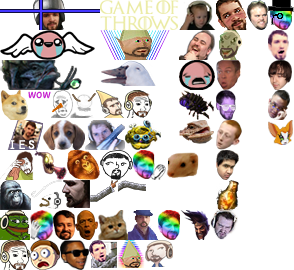
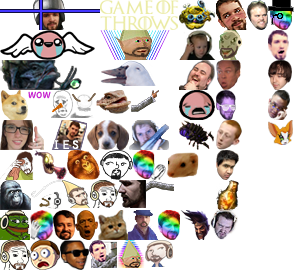
new emote, CheekerZ

Changed region(s): [[0.0, 0.0, 0.7347, 0.563], [0.2143, 0.6519, 0.6122, 0.7704]]

diff --git a/static/chat/css/style.min.css b/static/chat/css/style.min.css
@@ -1,1 +1,1 @@
-.nano{position:relative;width:100%;height:100%;overflow:hidden}.nano>.nano-content{position:absolute;overflow:scroll;overflow-x:hidden;top:0;right:0;bottom:0;left:0}.nano>.nano-content:focus{outline:thin dotted}.nano>.nano-content::-webkit-scrollbar{display:none}.has-scrollbar>.nano-content::-webkit-scrollbar{display:block}.nano>.nano-pane{background:rgba(0,0,0,0.25);position:absolute;width:10px;right:0;top:0;bottom:0;visibility:hidden\9;opacity:.01;-webkit-transition:.2s;-moz-transition:.2s;-o-transition:.2s;transition:.2s;-moz-border-radius:5px;-webkit-border-radius:5px;border-radius:5px}.nano>.nano-pane>.nano-slider{background:#444;background:rgba(0,0,0,0.5);position:relative;margin:0 1px;-moz-border-radius:3px;-webkit-border-radius:3px;border-radius:3px}.nano:hover>.nano-pane,.nano-pane.active,.nano-pane.flashed{visibility:visible\9;opacity:.99}.nano>.nano-pane>.nano-slider{background:#eee}.nano>.nano-pane{background:transparent;width:8px;right:4px}.serif{font-family:"Trebuchet MS",sans-serif}.noselect{-webkit-touch-callout:none;-webkit-user-select:none;-khtml-user-select:none;-moz-user-select:none;-ms-user-select:none;user-select:none}.chat{position:relative;width:100%;height:100%;min-width:300px}.chat-output-frame{margin-bottom:35px;height:auto;width:100%;position:absolute;overflow:hidden;top:0;bottom:0;left:0;right:0}.chat-output{width:100%;height:100%}.chat-output .chat-lines{-webkit-backface-visibility:hidden;-webkit-perspective:1000;outline:0 !important}.chat-lines>div{clear:both;word-wrap:break-word;padding:3px 20px 3px 5px}.chat-lines>div .continue{user-select:none;color:#444}.chat-lines>div i.continue{user-select:none;color:#222}.chat-lines a.user{font-weight:bold;cursor:pointer;font-family:"Trebuchet MS",sans-serif}.chat-lines hr{margin:8px 0}.chat-lines .msg.emote{font-style:italic}.chat-input{width:100%;position:absolute;bottom:0}#chat-top-frame{position:absolute;top:0;left:0;right:0}#chat-bottom-frame{position:absolute;bottom:35px;left:0;right:0}.chat-input>div{margin:5px 0 0 0;background:#2e2e2e}.chat-tools-wrap{position:absolute;right:0;bottom:0;margin:0;user-select:none;-moz-user-select:none;-webkit-user-select:none}.chat-input-wrap{margin:0;margin-right:60px}#user-mute-form,#user-ban-form{margin-top:10px;display:none}#user-mute-form #banTimeLength{width:150px}.chat-input-control{padding:3px 35px 0 5px;height:28px;margin:1px;border-radius:3px;position:relative}.chat-input-control .input{background:none;resize:none;margin:0;padding:0;width:100%;border:0;border-radius:0;box-shadow:none;box-sizing:border-box}.chat-input-control .input:focus{box-shadow:none}.chat-input-control #emoticon-btn{position:absolute;top:0;right:0;font-size:20px;padding:4px 10px;color:#555;cursor:pointer}.chat-input-control #emoticon-btn:hover,.chat-input-control #emoticon-btn.active{color:#969696}.chat-tools-wrap>div{height:30px;overflow:hidden}.chat-tools-wrap .iconbtn{font-size:20px;cursor:pointer;width:30px;height:28px;line-height:28px;float:left;display:block;text-align:center;color:#555;position:relative}.chat-tools-wrap .iconbtn:hover{color:white}.chat-tools-wrap .iconbtn.active{color:white}.chat-tools-wrap .chat-pm-count{font-family:"Lucida Console",Monaco,monospace;text-decoration:none;font-size:10px;color:white;background-color:#b91010;line-height:10px;padding:3px;position:absolute;border-radius:8px;top:-5px;left:0;display:block;text-shadow:1px 1px 0 black;text-align:center;box-shadow:1px 1px 0 rgba(0,0,0,0.1);min-width:15px}@-webkit-keyframes flash{0%,50%,100%{opacity:1}25%,75%{opacity:0}}@keyframes flash{0%,50%,100%{opacity:1}25%,75%{opacity:0}}.chat-pm-count.flash{-webkit-animation-name:flash;-webkit-animation-duration:1.5s;-webkit-animation-direction:alternate;-webkit-animation-timing-function:linear;-webkit-animation-delay:0s;-webkit-animation-iteration-count:infinite;-moz-animation-name:flash;-moz-animation-duration:1.5s;-moz-animation-direction:alternate;-moz-animation-timing-function:linear;-moz-animation-delay:0s;-moz-animation-iteration-count:infinite;animation-name:flash;animation-duration:1.5s;animation-iteration-count:infinite}.chat .chat-lines i[class^="icon-"]{width:16px;line-height:16px;height:16px;margin:0;opacity:1;display:inline-block;vertical-align:middle}.chat-input-control input,.chat-lines{font-family:Helvetica,"Trebuchet MS",Verdana,sans-serif;font-size:13px;line-height:1.5em}.chat-lines time{font-size:11px}.chat-lines a.externallink{color:#02c2ff}.chat-lines a.externallink:visited{color:#a66be5}.chat-lines a.externallink:hover,.chat-lines a.externallink:focus{color:#08c}.chat-lines a.nsfw-link{border-bottom:1px dashed red}.chat-lines a.nsfl-link{border-bottom:1px dashed #fff000}.chat .chat-lines time,.chat .user-msg i{display:none !important}.chat.chat-time .chat-lines time,.chat.chat-icons .user-msg i,.chat-lines i[class*='icon-subscriber']{display:inline-block !important}.chat-theme-dark{background:#080808;border-radius:0}.chat-theme-dark .chat-input-wrap{border:none}.chat-theme-dark .chat-lines time{color:#414141}.chat-theme-dark .chat-lines>div.highlight time,.chat-lines>div.highlight .continue{color:#838383}.chat-theme-dark .chat-lines>.command-msg,.chat-theme-dark .chat-lines>.error-msg,.chat-theme-dark .chat-lines>.status-msg,.chat-theme-dark .chat-lines>.ui-msg,.chat-theme-dark .chat-lines>.own-msg,.chat-theme-dark .chat-lines>.highlight{color:#dedede}.chat-theme-dark .chat-lines>.broadcast-msg .msg{color:#edea12}.chat-theme-dark .chat-lines>.broadcast-msg{background:rgba(255,255,21,0.1)}.chat-theme-dark .chat-lines>.own-msg{background-color:rgba(255,255,255,0.05)}.chat-theme-dark .chat-lines>.highlight{background-color:rgba(0,150,255,0.25)}.chat-theme-dark .chat-lines>.command-msg,.chat-theme-dark .chat-lines>.own-msg,.chat-theme-dark .chat-lines>.highlight .msg,.chat-theme-dark .chat-lines>.broadcast-msg .msg{text-shadow:1px 1px 0 rgba(0,0,0,0.5)}.chat-theme-dark .chat-input-control{background:#090909;border:none}.chat-theme-dark .chat-input-control input{color:#9e9e9e;background:#090909;text-shadow:none;outline:none}.chat-theme-dark .chat-lines>.private-message{background-color:#212121;margin:5px 15px 5px 10px;padding:10px;position:relative;border-radius:3px}.chat-theme-dark .chat-lines>.private-message .speech-arrow{top:15px;left:-5px;position:absolute;width:0;height:0;border-style:solid;border-width:5px 5px 5px 0;border-color:transparent #212121 transparent transparent}.chat-theme-dark .chat-lines>.private-message .message-actions{font-size:90%}.chat-theme-dark input:input-placeholder{color:#222}.chat-theme-dark input::-webkit-input-placeholder{color:#222}.chat-theme-dark input:-moz-placeholder{color:#222}.chat-theme-dark input::-moz-placeholder{color:#222}.chat-theme-dark input:-ms-input-placeholder{color:#222}.chat-theme-dark .nano>.pane{background:rgba(0,0,0,0.3);width:8px;right:5px;top:5px;bottom:0}.chat-theme-dark .nano>.pane>.slider{background:#999}.chat-theme-dark .nano>.pane>.slider:hover,.chat-theme-dark .nano>.pane.active>.slider{background:#eee}.chat.focus-user .chat-lines>.user-msg{opacity:.3}.chat.focus-user .chat-lines>.user-msg.focused,.chat.focus-user .chat-lines>.user-msg.highlight{opacity:1}.chat .alert{margin-bottom:0;padding-top:4px;padding-bottom:4px;font-size:12px}.hint-popup,.user-tools{width:100%;top:-5px;left:0}.hint-popup>div,.user-tools>div,#chat-broadcasts>div{border-radius:4px;margin:5px 20px 5px 5px}.user-tools .user-tools-user{font-family:"Trebuchet MS",sans-serif}#chat-broadcasts .chat-emote{display:none}.hint-popup>div{box-shadow:0 2px 6px rgba(0,0,0,0.9);padding:0}.hint-popup a:hover{cursor:pointer;color:#6aa7f9}.hint-popup .hidehint,.hint-popup .nexthint{top:0;position:relative;float:right;right:-23px;line-height:20px;-webkit-touch-callout:none;-webkit-user-select:none;-khtml-user-select:none;-moz-user-select:none;-ms-user-select:none;user-select:none;color:#ccc}.hint-popup .hidehint{right:-27px}.hint-popup .hidehint:hover,.hint-popup .nexthint:hover{color:#111}.hint-popup .alert{padding-right:35px}.user-tools-wrap{margin-left:-5px}.user-tools-wrap>a{margin:0 5px}.chat-menu,.user-tools,.hint-popup{display:none;opacity:0}.chat-menu.active,.user-tools.active,.hint-popup.active{display:block;opacity:1}.chat-menu,.user-tools,.hint-popup{font-size:12px}.chat-menu{position:absolute;right:20px;bottom:-5px;width:240px}.chat-menu.active{bottom:0}.chat-menu h5,.user-tools h5{text-shadow:-1px -1px 0 rgba(0,0,0,0.25);user-select:none;-moz-user-select:none;-webkit-user-select:none;background:#4f4f4f;background:linear-gradient(to bottom, #4f4f4f 0, #2e2e2e 100%);border-bottom:1px solid #121212;margin:0;line-height:20px;display:block;padding:5px 15px 5px 10px;border-radius:4px 4px 0 0}.chat-menu .toolbar{width:100%;position:absolute;top:-31px;left:0}.chat-menu li,.chat-menu label{font-size:12px}.chat-menu label{font-weight:normal;margin:0 0 5px 0}.chat-menu label:hover{color:white}.chat-menu .list-wrap,.chat-menu .scrollable{max-height:343px}.chat-menu .list-wrap,.user-tools>div{box-shadow:0 2px 6px rgba(0,0,0,0.9);border-radius:0 0 4px 4px;background:rgba(25,25,25,0.9);padding:0}.chat-menu .list-wrap{margin-top:auto}.chat-menu ul,.chat-menu .tools,.user-tools .tools{padding:0 10px;margin:10px 0}.chat-menu ul>li:first-child h5{margin-top:0}.chat-menu ul li{text-overflow:ellipsis;overflow:hidden}.chat-menu h6:first-child{margin-top:10px}.chat-menu h6{font-weight:bold;margin:0 0 5px 5px}#chat-user-list ul li{line-height:18px}#chat-user-list hr{margin:5px 0}#chat-user-list ul{margin:0}#chat-user-list .user{cursor:pointer;font-family:"Trebuchet MS",sans-serif}#chat-user-list .scrollable{font-size:.9em}.user-tools a#unignoreuser,.user-tools.user-ignored a#ignoreuser{display:none}.user-tools.user-ignored a#unignoreuser{display:inline-block}.chat-menu .nano>.pane{width:8px;right:3px;top:3px;bottom:3px}#chat-private-messages{width:270px}#chat-private-messages #chat-pm-message{padding:15px}#chat-private-messages #chat-pm-message p{font-size:14px;text-align:center}#chat-emote-list{width:calc(100% - 40px);max-width:450px}#chat-emote-list h6{text-align:center}#chat-emotes{text-align:center}#chat-emote-list .emote-group{margin-right:10px;margin-top:5px;-webkit-touch-callout:none;-webkit-user-select:none;-khtml-user-select:none;-moz-user-select:none;-ms-user-select:none;user-select:none}#chat-emote-list .emote{display:inline-block;padding:4px}#chat-emote-list .emote-group:not(.disabled) .emote:hover{cursor:pointer;background-color:rgba(255,255,255,0.1);border-radius:4px}#chat-emote-list .chat-emote{top:0;margin:5px}#chat-emote-list .content{outline:0}.chat-login-msg{display:inline-block;width:100%;padding:0 0 0 5px;line-height:30px;color:rgba(255,255,255,0.5);text-shadow:-1px -1px 0 rgba(0,0,0,0.25)}.chat-lines .emotecount{color:white;text-shadow:1px 1px 0 rgba(0,0,0,0.9);font-size:10px;line-height:10px;border-radius:10px;padding:3px 6px;margin:0 0 0 5px;background:#191919}.chat-lines .emotecount{text-shadow:none;animation:emotecount 600ms 1;-moz-animation:emotecount 600ms 1;-webkit-animation:emotecount 600ms 1}@keyframes emotecount{from{color:black;background-color:white}to{color:white;background-color:#333}}@-webkit-keyframes emotecount{from{color:black;background-color:white}to{color:white;background-color:#333}}.chat-lines .emotecount.x5>span{font-size:12px}.chat-lines .emotecount.x10>span{font-size:16px}.chat-lines .emotecount.x20>span{font-size:25px;vertical-align:middle}.chat-lines .emotecount.x30>span{font-size:35px;vertical-align:middle}.chat-lines .emotecount.x50>span{font-size:40px;vertical-align:middle}.chat a.user{color:#cacaca}.chat a.user:hover{color:#fafafa}.chat a.subscriber{color:#488ce7}.chat a.subscriber:hover{color:#6aa7f9}.chat a.flair3{color:#0060ff;text-shadow:1px 1px 0 black}.chat a.flair3:hover{color:#6aa7f9}.chat a.flair8{color:#a427d6;text-shadow:1px 1px 0 black}.chat a.flair8:hover{color:#e564f4}.chat a.vip{color:#4db524}.chat a.vip:hover{color:#4db524}.chat a.bot{color:#e79015}.chat a.bot:hover{color:#e79015}.chat a.admin{color:#b91010}.chat a.admin:hover{color:#f00}.chat .greentext{color:#6ca528}@keyframes hop{0%{transform:translateY(0)}5%{transform:translateY(2px)}10%{transform:translateY(-13px)}50%{transform:translateY(-15px)}70%{transform:translateY(-13px)}80%{transform:translateY(-5px)}95%{transform:translateY(0)}100%{transform:translateY(0)}}.hop{animation:hop 700ms linear 5}.chat-emote{display:inline-block;position:relative;top:10px;margin:0 2px;overflow:hidden;text-indent:-90000px;vertical-align:middle}.chat-emote.chat-emote-OverRustle{animation:rustle 100ms 7;-webkit-animation:rustle 100ms 7}.chat-emote.chat-emote-OverRustle:hover{animation:rustle1 100ms infinite;-webkit-animation:rustle1 100ms infinite}@keyframes rustle{from{left:0}to{left:2px}}@-webkit-keyframes rustle{from{left:0}to{left:2px}}@keyframes rustle1{from{left:0}to{left:2px}}@-webkit-keyframes rustle1{from{left:0}to{left:2px}}.chat-emote.chat-emote-AYYYLMAO,.chat-emote.chat-emote-AngelThump,.chat-emote.chat-emote-Abathur,.chat-emote.chat-emote-GameOfThrows,.chat-emote.chat-emote-DANKMEMES,.chat-emote.chat-emote-DuckerZ,.chat-emote.chat-emote-SoDoge,.chat-emote.chat-emote-SoSad,.chat-emote.chat-emote-LIES,.chat-emote.chat-emote-FrankerZ,.chat-emote.chat-emote-SOTRIGGERED,.chat-emote.chat-emote-Heimerdonger,.chat-emote.chat-emote-FeedNathan,.chat-emote.chat-emote-LUL,.chat-emote.chat-emote-BibleThump,.chat-emote.chat-emote-INFESTINY,.chat-emote.chat-emote-Hhhehhehe,.chat-emote.chat-emote-SWEATSTINY,.chat-emote.chat-emote-SURPRISE,.chat-emote.chat-emote-OverRustle,.chat-emote.chat-emote-LeRuse,.chat-emote.chat-emote-Klappa,.chat-emote.chat-emote-FerretLOL,.chat-emote.chat-emote-NoTears,.chat-emote.chat-emote-MASTERB8,.chat-emote.chat-emote-DestiSenpaii,.chat-emote.chat-emote-YEE,.chat-emote.chat-emote-WhoahDude,.chat-emote.chat-emote-WORTH,.chat-emote.chat-emote-UWOTM8,.chat-emote.chat-emote-TooSpicy,.chat-emote.chat-emote-Sippy,.chat-emote.chat-emote-PEPE,.chat-emote.chat-emote-OhKrappa,.chat-emote.chat-emote-Nappa,.chat-emote.chat-emote-NOTMYTEMPO,.chat-emote.chat-emote-MotherFuckinGame,.chat-emote.chat-emote-MLADY,.chat-emote.chat-emote-Kappa,.chat-emote.chat-emote-Dravewin,.chat-emote.chat-emote-Disgustiny,.chat-emote.chat-emote-DatGeoff,.chat-emote.chat-emote-DappaKappa,.chat-emote.chat-emote-DaFeels,.chat-emote.chat-emote-DURRSTINY,.chat-emote.chat-emote-DAFUK,.chat-emote.chat-emote-CallChad,.chat-emote.chat-emote-CallCatz,.chat-emote.chat-emote-BasedGod,.chat-emote.chat-emote-nathanParty,.chat-emote.chat-emote-nathanFeels,.chat-emote.chat-emote-nathanFather,.chat-emote.chat-emote-nathanDubs3,.chat-emote.chat-emote-nathanDubs2,.chat-emote.chat-emote-nathanDubs1,.chat-emote.chat-emote-nathanDank,.chat-emote.chat-emote-nathanDad,.chat-emote.chat-emote-FIDGETLOL{background-image:url('../img/emoticons.png');background-repeat:no-repeat}.chat-emote.chat-emote-AYYYLMAO{background-position:0 0;width:100px;height:30px;margin-top:-30px}.chat-emote.chat-emote-AngelThump{background-position:0 -30px;width:95px;height:30px;margin-top:-30px}.chat-emote.chat-emote-Abathur{background-position:0 -60px;width:82px;height:30px;margin-top:-30px}.chat-emote.chat-emote-GameOfThrows{background-position:-100px 0;width:79px;height:30px;margin-top:-30px}.chat-emote.chat-emote-DANKMEMES{background-position:-100px -30px;width:70px;height:30px;margin-top:-30px}.chat-emote.chat-emote-DuckerZ{background-position:-100px -60px;width:56px;height:26px;margin-top:-26px}.chat-emote.chat-emote-SoDoge{background-position:0 -90px;width:51px;height:30px;margin-top:-30px}.chat-emote.chat-emote-SoSad{background-position:-51px -90px;width:45px;height:28px;margin-top:-28px}.chat-emote.chat-emote-LIES{background-position:0 -120px;width:43px;height:30px;margin-top:-30px}.chat-emote.chat-emote-FrankerZ{background-position:-43px -120px;width:42px;height:30px;margin-top:-30px}.chat-emote.chat-emote-SOTRIGGERED{background-position:-85px -120px;width:40px;height:30px;margin-top:-30px}.chat-emote.chat-emote-Heimerdonger{background-position:-125px -120px;width:37px;height:30px;margin-top:-30px}.chat-emote.chat-emote-FeedNathan{background-position:-179px 0;width:37px;height:30px;margin-top:-30px}.chat-emote.chat-emote-LUL{background-position:-179px -30px;width:36px;height:30px;margin-top:-30px}.chat-emote.chat-emote-BibleThump{background-position:-179px -60px;width:36px;height:30px;margin-top:-30px}.chat-emote.chat-emote-INFESTINY{background-position:-179px -90px;width:35px;height:30px;margin-top:-30px}.chat-emote.chat-emote-Hhhehhehe{background-position:-179px -120px;width:35px;height:24px;margin-top:-24px}.chat-emote.chat-emote-SWEATSTINY{background-position:0 -150px;width:34px;height:30px;margin-top:-30px}.chat-emote.chat-emote-SURPRISE{background-position:-34px -150px;width:33px;height:30px;margin-top:-30px}.chat-emote.chat-emote-OverRustle{background-position:-67px -150px;width:33px;height:30px;margin-top:-30px}.chat-emote.chat-emote-LeRuse{background-position:-100px -150px;width:33px;height:30px;margin-top:-30px}.chat-emote.chat-emote-Klappa{background-position:-133px -150px;width:33px;height:30px;margin-top:-30px}.chat-emote.chat-emote-FerretLOL{background-position:-166px -150px;width:33px;height:30px;margin-top:-30px}.chat-emote.chat-emote-NoTears{background-position:0 -180px;width:31px;height:30px;margin-top:-30px}.chat-emote.chat-emote-MASTERB8{background-position:-31px -180px;width:31px;height:29px;margin-top:-29px}.chat-emote.chat-emote-DestiSenpaii{background-position:-216px 0;width:31px;height:30px;margin-top:-30px}.chat-emote.chat-emote-YEE{background-position:-216px -30px;width:27px;height:30px;margin-top:-30px}.chat-emote.chat-emote-WhoahDude{background-position:-216px -60px;width:25px;height:30px;margin-top:-30px}.chat-emote.chat-emote-WORTH{background-position:-216px -90px;width:20px;height:30px;margin-top:-30px}.chat-emote.chat-emote-UWOTM8{background-position:-216px -120px;width:26px;height:30px;margin-top:-30px}.chat-emote.chat-emote-TooSpicy{background-position:-216px -150px;width:23px;height:30px;margin-top:-30px}.chat-emote.chat-emote-Sippy{background-position:-216px -180px;width:24px;height:30px;margin-top:-30px}.chat-emote.chat-emote-PEPE{background-position:0 -210px;width:30px;height:30px;margin-top:-30px}.chat-emote.chat-emote-OhKrappa{background-position:-30px -210px;width:23px;height:30px;margin-top:-30px}.chat-emote.chat-emote-Nappa{background-position:-53px -210px;width:22px;height:30px;margin-top:-30px}.chat-emote.chat-emote-NOTMYTEMPO{background-position:-75px -210px;width:23px;height:30px;margin-top:-30px}.chat-emote.chat-emote-MotherFuckinGame{background-position:-98px -210px;width:30px;height:30px;margin-top:-30px}.chat-emote.chat-emote-MLADY{background-position:-128px -210px;width:30px;height:30px;margin-top:-30px}.chat-emote.chat-emote-Kappa{background-position:-158px -210px;width:22px;height:30px;margin-top:-30px}.chat-emote.chat-emote-Dravewin{background-position:-180px -210px;width:30px;height:30px;margin-top:-30px}.chat-emote.chat-emote-Disgustiny{background-position:-210px -210px;width:28px;height:30px;margin-top:-30px}.chat-emote.chat-emote-DatGeoff{background-position:-247px 0;width:21px;height:30px;margin-top:-30px}.chat-emote.chat-emote-DappaKappa{background-position:-268px 0;width:26px;height:30px;margin-top:-30px}.chat-emote.chat-emote-DaFeels{background-position:0 -240px;width:30px;height:30px;margin-top:-30px}.chat-emote.chat-emote-DURRSTINY{background-position:-268px -30px;width:21px;height:30px;margin-top:-30px}.chat-emote.chat-emote-DAFUK{background-position:-30px -240px;width:30px;height:30px;margin-top:-30px}.chat-emote.chat-emote-CallChad{background-position:-268px -60px;width:24px;height:30px;margin-top:-30px}.chat-emote.chat-emote-CallCatz{background-position:-268px -90px;width:22px;height:30px;margin-top:-30px}.chat-emote.chat-emote-BasedGod{background-position:-60px -240px;width:29px;height:30px;margin-top:-30px}.chat-emote.chat-emote-nathanParty{background-position:-96px -90px;width:28px;height:28px;margin-top:-28px}.chat-emote.chat-emote-nathanFeels{background-position:-124px -90px;width:28px;height:28px;margin-top:-28px}.chat-emote.chat-emote-nathanFather{background-position:-62px -180px;width:28px;height:28px;margin-top:-28px}.chat-emote.chat-emote-nathanDubs3{background-position:-90px -180px;width:28px;height:22px;margin-top:-22px}.chat-emote.chat-emote-nathanDubs2{background-position:-118px -180px;width:28px;height:12px;margin-top:-12px}.chat-emote.chat-emote-nathanDubs1{background-position:-89px -240px;width:28px;height:28px;margin-top:-28px}.chat-emote.chat-emote-nathanDank{background-position:-117px -240px;width:28px;height:28px;margin-top:-28px}.chat-emote.chat-emote-nathanDad{background-position:-145px -240px;width:28px;height:27px;margin-top:-27px}.chat-emote.chat-emote-FIDGETLOL{background-position:-268px -120px;width:25px;height:25px;margin-top:-25px}.icon-subscriber,.icon-subscribert2,.icon-subscribert3,.icon-subscribert4{-webkit-transform:rotate(0deg);-webkit-transition:rotate .2s ease-in-out;-moz-transition:rotate .2s ease-in-out;-o-transition:rotate .2s ease-in-out;transition:rotate .2s ease-in-out}.icon-subscriber:hover,.icon-subscribert2:hover,.icon-subscribert3:hover,.icon-subscribert4:hover{-moz-animation:spin 3s infinite linear;-webkit-animation:spin 3s infinite linear}.icon-vip:hover,.icon-vip,.icon-trusted,.icon-subscribert4,.icon-subscribert3,.icon-subscribert2,.icon-subscriber,.icon-status,.icon-notable,.icon-moderator,.icon-minitwitch,.icon-mail,.icon-mail-send,.icon-mail-receive,.icon-mail-open-document,.icon-info,.icon-evenotable,.icon-error,.icon-contributor,.icon-compchallenge:hover,.icon-compchallenge,.icon-command,.icon-bot:hover,.icon-bot,.icon-admin:hover,.icon-admin{background-image:url('../img/icons.png');background-repeat:no-repeat}.icon-vip:hover{background-position:0 0;width:16px;height:16px}.icon-vip{background-position:-16px 0;width:16px;height:16px}.icon-trusted{background-position:0 -16px;width:16px;height:16px}.icon-subscribert4{background-position:-16px -16px;width:16px;height:16px}.icon-subscribert3{background-position:-32px 0;width:16px;height:16px}.icon-subscribert2{background-position:-32px -16px;width:16px;height:16px}.icon-subscriber{background-position:0 -32px;width:16px;height:16px}.icon-status{background-position:-16px -32px;width:16px;height:16px}.icon-notable{background-position:-32px -32px;width:16px;height:16px}.icon-moderator{background-position:-48px 0;width:16px;height:16px}.icon-minitwitch{background-position:-48px -16px;width:16px;height:16px}.icon-mail{background-position:-48px -32px;width:16px;height:16px}.icon-mail-send{background-position:0 -48px;width:16px;height:16px}.icon-mail-receive{background-position:-16px -48px;width:16px;height:16px}.icon-mail-open-document{background-position:-32px -48px;width:16px;height:16px}.icon-info{background-position:-48px -48px;width:16px;height:16px}.icon-evenotable{background-position:-64px 0;width:16px;height:16px}.icon-error{background-position:-64px -16px;width:16px;height:16px}.icon-contributor{background-position:-64px -32px;width:16px;height:16px}.icon-compchallenge:hover{background-position:-64px -48px;width:16px;height:16px}.icon-compchallenge{background-position:0 -64px;width:16px;height:16px}.icon-command{background-position:-16px -64px;width:16px;height:16px}.icon-bot:hover{background-position:-32px -64px;width:16px;height:16px}.icon-bot{background-position:-48px -64px;width:16px;height:16px}.icon-admin:hover{background-position:-64px -64px;width:16px;height:16px}.icon-admin{background-position:-80px 0;width:16px;height:16px}
+.nano{position:relative;width:100%;height:100%;overflow:hidden}.nano>.nano-content{position:absolute;overflow:scroll;overflow-x:hidden;top:0;right:0;bottom:0;left:0}.nano>.nano-content:focus{outline:thin dotted}.nano>.nano-content::-webkit-scrollbar{display:none}.has-scrollbar>.nano-content::-webkit-scrollbar{display:block}.nano>.nano-pane{background:rgba(0,0,0,0.25);position:absolute;width:10px;right:0;top:0;bottom:0;visibility:hidden\9;opacity:.01;-webkit-transition:.2s;-moz-transition:.2s;-o-transition:.2s;transition:.2s;-moz-border-radius:5px;-webkit-border-radius:5px;border-radius:5px}.nano>.nano-pane>.nano-slider{background:#444;background:rgba(0,0,0,0.5);position:relative;margin:0 1px;-moz-border-radius:3px;-webkit-border-radius:3px;border-radius:3px}.nano:hover>.nano-pane,.nano-pane.active,.nano-pane.flashed{visibility:visible\9;opacity:.99}.nano>.nano-pane>.nano-slider{background:#eee}.nano>.nano-pane{background:transparent;width:8px;right:4px}.serif{font-family:"Trebuchet MS",sans-serif}.noselect{-webkit-touch-callout:none;-webkit-user-select:none;-khtml-user-select:none;-moz-user-select:none;-ms-user-select:none;user-select:none}.chat{position:relative;width:100%;height:100%;min-width:300px}.chat-output-frame{margin-bottom:35px;height:auto;width:100%;position:absolute;overflow:hidden;top:0;bottom:0;left:0;right:0}.chat-output{width:100%;height:100%}.chat-output .chat-lines{-webkit-backface-visibility:hidden;-webkit-perspective:1000;outline:0 !important}.chat-lines>div{clear:both;word-wrap:break-word;padding:3px 20px 3px 5px}.chat-lines>div .continue{user-select:none;color:#444}.chat-lines>div i.continue{user-select:none;color:#222}.chat-lines a.user{font-weight:bold;cursor:pointer;font-family:"Trebuchet MS",sans-serif}.chat-lines hr{margin:8px 0}.chat-lines .msg.emote{font-style:italic}.chat-input{width:100%;position:absolute;bottom:0}#chat-top-frame{position:absolute;top:0;left:0;right:0}#chat-bottom-frame{position:absolute;bottom:35px;left:0;right:0}.chat-input>div{margin:5px 0 0 0;background:#2e2e2e}.chat-tools-wrap{position:absolute;right:0;bottom:0;margin:0;user-select:none;-moz-user-select:none;-webkit-user-select:none}.chat-input-wrap{margin:0;margin-right:60px}#user-mute-form,#user-ban-form{margin-top:10px;display:none}#user-mute-form #banTimeLength{width:150px}.chat-input-control{padding:3px 35px 0 5px;height:28px;margin:1px;border-radius:3px;position:relative}.chat-input-control .input{background:none;resize:none;margin:0;padding:0;width:100%;border:0;border-radius:0;box-shadow:none;box-sizing:border-box}.chat-input-control .input:focus{box-shadow:none}.chat-input-control #emoticon-btn{position:absolute;top:0;right:0;font-size:20px;padding:4px 10px;color:#555;cursor:pointer}.chat-input-control #emoticon-btn:hover,.chat-input-control #emoticon-btn.active{color:#969696}.chat-tools-wrap>div{height:30px;overflow:hidden}.chat-tools-wrap .iconbtn{font-size:20px;cursor:pointer;width:30px;height:28px;line-height:28px;float:left;display:block;text-align:center;color:#555;position:relative}.chat-tools-wrap .iconbtn:hover{color:white}.chat-tools-wrap .iconbtn.active{color:white}.chat-tools-wrap .chat-pm-count{font-family:"Lucida Console",Monaco,monospace;text-decoration:none;font-size:10px;color:white;background-color:#b91010;line-height:10px;padding:3px;position:absolute;border-radius:8px;top:-5px;left:0;display:block;text-shadow:1px 1px 0 black;text-align:center;box-shadow:1px 1px 0 rgba(0,0,0,0.1);min-width:15px}@-webkit-keyframes flash{0%,50%,100%{opacity:1}25%,75%{opacity:0}}@keyframes flash{0%,50%,100%{opacity:1}25%,75%{opacity:0}}.chat-pm-count.flash{-webkit-animation-name:flash;-webkit-animation-duration:1.5s;-webkit-animation-direction:alternate;-webkit-animation-timing-function:linear;-webkit-animation-delay:0s;-webkit-animation-iteration-count:infinite;-moz-animation-name:flash;-moz-animation-duration:1.5s;-moz-animation-direction:alternate;-moz-animation-timing-function:linear;-moz-animation-delay:0s;-moz-animation-iteration-count:infinite;animation-name:flash;animation-duration:1.5s;animation-iteration-count:infinite}.chat .chat-lines i[class^="icon-"]{width:16px;line-height:16px;height:16px;margin:0;opacity:1;display:inline-block;vertical-align:middle}.chat-input-control input,.chat-lines{font-family:Helvetica,"Trebuchet MS",Verdana,sans-serif;font-size:13px;line-height:1.5em}.chat-lines time{font-size:11px}.chat-lines a.externallink{color:#02c2ff}.chat-lines a.externallink:visited{color:#a66be5}.chat-lines a.externallink:hover,.chat-lines a.externallink:focus{color:#08c}.chat-lines a.nsfw-link{border-bottom:1px dashed red}.chat-lines a.nsfl-link{border-bottom:1px dashed #fff000}.chat .chat-lines time,.chat .user-msg i{display:none !important}.chat.chat-time .chat-lines time,.chat.chat-icons .user-msg i,.chat-lines i[class*='icon-subscriber']{display:inline-block !important}.chat-theme-dark{background:#080808;border-radius:0}.chat-theme-dark .chat-input-wrap{border:none}.chat-theme-dark .chat-lines time{color:#414141}.chat-theme-dark .chat-lines>div.highlight time,.chat-lines>div.highlight .continue{color:#838383}.chat-theme-dark .chat-lines>.command-msg,.chat-theme-dark .chat-lines>.error-msg,.chat-theme-dark .chat-lines>.status-msg,.chat-theme-dark .chat-lines>.ui-msg,.chat-theme-dark .chat-lines>.own-msg,.chat-theme-dark .chat-lines>.highlight{color:#dedede}.chat-theme-dark .chat-lines>.broadcast-msg .msg{color:#edea12}.chat-theme-dark .chat-lines>.broadcast-msg{background:rgba(255,255,21,0.1)}.chat-theme-dark .chat-lines>.own-msg{background-color:rgba(255,255,255,0.05)}.chat-theme-dark .chat-lines>.highlight{background-color:rgba(0,150,255,0.25)}.chat-theme-dark .chat-lines>.command-msg,.chat-theme-dark .chat-lines>.own-msg,.chat-theme-dark .chat-lines>.highlight .msg,.chat-theme-dark .chat-lines>.broadcast-msg .msg{text-shadow:1px 1px 0 rgba(0,0,0,0.5)}.chat-theme-dark .chat-input-control{background:#090909;border:none}.chat-theme-dark .chat-input-control input{color:#9e9e9e;background:#090909;text-shadow:none;outline:none}.chat-theme-dark .chat-lines>.private-message{background-color:#212121;margin:5px 15px 5px 10px;padding:10px;position:relative;border-radius:3px}.chat-theme-dark .chat-lines>.private-message .speech-arrow{top:15px;left:-5px;position:absolute;width:0;height:0;border-style:solid;border-width:5px 5px 5px 0;border-color:transparent #212121 transparent transparent}.chat-theme-dark .chat-lines>.private-message .message-actions{font-size:90%}.chat-theme-dark input:input-placeholder{color:#222}.chat-theme-dark input::-webkit-input-placeholder{color:#222}.chat-theme-dark input:-moz-placeholder{color:#222}.chat-theme-dark input::-moz-placeholder{color:#222}.chat-theme-dark input:-ms-input-placeholder{color:#222}.chat-theme-dark .nano>.pane{background:rgba(0,0,0,0.3);width:8px;right:5px;top:5px;bottom:0}.chat-theme-dark .nano>.pane>.slider{background:#999}.chat-theme-dark .nano>.pane>.slider:hover,.chat-theme-dark .nano>.pane.active>.slider{background:#eee}.chat.focus-user .chat-lines>.user-msg{opacity:.3}.chat.focus-user .chat-lines>.user-msg.focused,.chat.focus-user .chat-lines>.user-msg.highlight{opacity:1}.chat .alert{margin-bottom:0;padding-top:4px;padding-bottom:4px;font-size:12px}.hint-popup,.user-tools{width:100%;top:-5px;left:0}.hint-popup>div,.user-tools>div,#chat-broadcasts>div{border-radius:4px;margin:5px 20px 5px 5px}.user-tools .user-tools-user{font-family:"Trebuchet MS",sans-serif}#chat-broadcasts .chat-emote{display:none}.hint-popup>div{box-shadow:0 2px 6px rgba(0,0,0,0.9);padding:0}.hint-popup a:hover{cursor:pointer;color:#6aa7f9}.hint-popup .hidehint,.hint-popup .nexthint{top:0;position:relative;float:right;right:-23px;line-height:20px;-webkit-touch-callout:none;-webkit-user-select:none;-khtml-user-select:none;-moz-user-select:none;-ms-user-select:none;user-select:none;color:#ccc}.hint-popup .hidehint{right:-27px}.hint-popup .hidehint:hover,.hint-popup .nexthint:hover{color:#111}.hint-popup .alert{padding-right:35px}.user-tools-wrap{margin-left:-5px}.user-tools-wrap>a{margin:0 5px}.chat-menu,.user-tools,.hint-popup{display:none;opacity:0}.chat-menu.active,.user-tools.active,.hint-popup.active{display:block;opacity:1}.chat-menu,.user-tools,.hint-popup{font-size:12px}.chat-menu{position:absolute;right:20px;bottom:-5px;width:240px}.chat-menu.active{bottom:0}.chat-menu h5,.user-tools h5{text-shadow:-1px -1px 0 rgba(0,0,0,0.25);user-select:none;-moz-user-select:none;-webkit-user-select:none;background:#4f4f4f;background:linear-gradient(to bottom, #4f4f4f 0, #2e2e2e 100%);border-bottom:1px solid #121212;margin:0;line-height:20px;display:block;padding:5px 15px 5px 10px;border-radius:4px 4px 0 0}.chat-menu .toolbar{width:100%;position:absolute;top:-31px;left:0}.chat-menu li,.chat-menu label{font-size:12px}.chat-menu label{font-weight:normal;margin:0 0 5px 0}.chat-menu label:hover{color:white}.chat-menu .list-wrap,.chat-menu .scrollable{max-height:343px}.chat-menu .list-wrap,.user-tools>div{box-shadow:0 2px 6px rgba(0,0,0,0.9);border-radius:0 0 4px 4px;background:rgba(25,25,25,0.9);padding:0}.chat-menu .list-wrap{margin-top:auto}.chat-menu ul,.chat-menu .tools,.user-tools .tools{padding:0 10px;margin:10px 0}.chat-menu ul>li:first-child h5{margin-top:0}.chat-menu ul li{text-overflow:ellipsis;overflow:hidden}.chat-menu h6:first-child{margin-top:10px}.chat-menu h6{font-weight:bold;margin:0 0 5px 5px}#chat-user-list ul li{line-height:18px}#chat-user-list hr{margin:5px 0}#chat-user-list ul{margin:0}#chat-user-list .user{cursor:pointer;font-family:"Trebuchet MS",sans-serif}#chat-user-list .scrollable{font-size:.9em}.user-tools a#unignoreuser,.user-tools.user-ignored a#ignoreuser{display:none}.user-tools.user-ignored a#unignoreuser{display:inline-block}.chat-menu .nano>.pane{width:8px;right:3px;top:3px;bottom:3px}#chat-private-messages{width:270px}#chat-private-messages #chat-pm-message{padding:15px}#chat-private-messages #chat-pm-message p{font-size:14px;text-align:center}#chat-emote-list{width:calc(100% - 40px);max-width:450px}#chat-emote-list h6{text-align:center}#chat-emotes{text-align:center}#chat-emote-list .emote-group{margin-right:10px;margin-top:5px;-webkit-touch-callout:none;-webkit-user-select:none;-khtml-user-select:none;-moz-user-select:none;-ms-user-select:none;user-select:none}#chat-emote-list .emote{display:inline-block;padding:4px}#chat-emote-list .emote-group:not(.disabled) .emote:hover{cursor:pointer;background-color:rgba(255,255,255,0.1);border-radius:4px}#chat-emote-list .chat-emote{top:0;margin:5px}#chat-emote-list .content{outline:0}.chat-login-msg{display:inline-block;width:100%;padding:0 0 0 5px;line-height:30px;color:rgba(255,255,255,0.5);text-shadow:-1px -1px 0 rgba(0,0,0,0.25)}.chat-lines .emotecount{color:white;text-shadow:1px 1px 0 rgba(0,0,0,0.9);font-size:10px;line-height:10px;border-radius:10px;padding:3px 6px;margin:0 0 0 5px;background:#191919}.chat-lines .emotecount{text-shadow:none;animation:emotecount 600ms 1;-moz-animation:emotecount 600ms 1;-webkit-animation:emotecount 600ms 1}@keyframes emotecount{from{color:black;background-color:white}to{color:white;background-color:#333}}@-webkit-keyframes emotecount{from{color:black;background-color:white}to{color:white;background-color:#333}}.chat-lines .emotecount.x5>span{font-size:12px}.chat-lines .emotecount.x10>span{font-size:16px}.chat-lines .emotecount.x20>span{font-size:25px;vertical-align:middle}.chat-lines .emotecount.x30>span{font-size:35px;vertical-align:middle}.chat-lines .emotecount.x50>span{font-size:40px;vertical-align:middle}.chat a.user{color:#cacaca}.chat a.user:hover{color:#fafafa}.chat a.subscriber{color:#488ce7}.chat a.subscriber:hover{color:#6aa7f9}.chat a.flair3{color:#0060ff;text-shadow:1px 1px 0 black}.chat a.flair3:hover{color:#6aa7f9}.chat a.flair8{color:#a427d6;text-shadow:1px 1px 0 black}.chat a.flair8:hover{color:#e564f4}.chat a.vip{color:#4db524}.chat a.vip:hover{color:#4db524}.chat a.bot{color:#e79015}.chat a.bot:hover{color:#e79015}.chat a.admin{color:#b91010}.chat a.admin:hover{color:#f00}.chat .greentext{color:#6ca528}@keyframes hop{0%{transform:translateY(0)}5%{transform:translateY(2px)}10%{transform:translateY(-13px)}50%{transform:translateY(-15px)}70%{transform:translateY(-13px)}80%{transform:translateY(-5px)}95%{transform:translateY(0)}100%{transform:translateY(0)}}.hop{animation:hop 700ms linear 5}.chat-emote{display:inline-block;position:relative;top:10px;margin:0 2px;overflow:hidden;text-indent:-90000px;vertical-align:middle}.chat-emote.chat-emote-OverRustle{animation:rustle 100ms 7;-webkit-animation:rustle 100ms 7}.chat-emote.chat-emote-OverRustle:hover{animation:rustle1 100ms infinite;-webkit-animation:rustle1 100ms infinite}@keyframes rustle{from{left:0}to{left:2px}}@-webkit-keyframes rustle{from{left:0}to{left:2px}}@keyframes rustle1{from{left:0}to{left:2px}}@-webkit-keyframes rustle1{from{left:0}to{left:2px}}.chat-emote.chat-emote-AYYYLMAO,.chat-emote.chat-emote-AngelThump,.chat-emote.chat-emote-Abathur,.chat-emote.chat-emote-GameOfThrows,.chat-emote.chat-emote-DANKMEMES,.chat-emote.chat-emote-DuckerZ,.chat-emote.chat-emote-SoDoge,.chat-emote.chat-emote-SoSad,.chat-emote.chat-emote-CheekerZ,.chat-emote.chat-emote-LIES,.chat-emote.chat-emote-FrankerZ,.chat-emote.chat-emote-SOTRIGGERED,.chat-emote.chat-emote-Heimerdonger,.chat-emote.chat-emote-FeedNathan,.chat-emote.chat-emote-LUL,.chat-emote.chat-emote-BibleThump,.chat-emote.chat-emote-INFESTINY,.chat-emote.chat-emote-Hhhehhehe,.chat-emote.chat-emote-SWEATSTINY,.chat-emote.chat-emote-SURPRISE,.chat-emote.chat-emote-OverRustle,.chat-emote.chat-emote-LeRuse,.chat-emote.chat-emote-Klappa,.chat-emote.chat-emote-FerretLOL,.chat-emote.chat-emote-NoTears,.chat-emote.chat-emote-MASTERB8,.chat-emote.chat-emote-DestiSenpaii,.chat-emote.chat-emote-YEE,.chat-emote.chat-emote-WhoahDude,.chat-emote.chat-emote-WORTH,.chat-emote.chat-emote-UWOTM8,.chat-emote.chat-emote-TooSpicy,.chat-emote.chat-emote-Sippy,.chat-emote.chat-emote-PEPE,.chat-emote.chat-emote-OhKrappa,.chat-emote.chat-emote-Nappa,.chat-emote.chat-emote-NOTMYTEMPO,.chat-emote.chat-emote-MotherFuckinGame,.chat-emote.chat-emote-MLADY,.chat-emote.chat-emote-Kappa,.chat-emote.chat-emote-Dravewin,.chat-emote.chat-emote-Disgustiny,.chat-emote.chat-emote-DatGeoff,.chat-emote.chat-emote-DappaKappa,.chat-emote.chat-emote-DaFeels,.chat-emote.chat-emote-DURRSTINY,.chat-emote.chat-emote-DAFUK,.chat-emote.chat-emote-CallChad,.chat-emote.chat-emote-CallCatz,.chat-emote.chat-emote-BasedGod,.chat-emote.chat-emote-nathanParty,.chat-emote.chat-emote-nathanFeels,.chat-emote.chat-emote-nathanFather,.chat-emote.chat-emote-nathanDubs3,.chat-emote.chat-emote-nathanDubs2,.chat-emote.chat-emote-nathanDubs1,.chat-emote.chat-emote-nathanDank,.chat-emote.chat-emote-nathanDad,.chat-emote.chat-emote-FIDGETLOL{background-image:url('../img/emoticons.png');background-repeat:no-repeat}.chat-emote.chat-emote-AYYYLMAO{background-position:0 0;width:100px;height:30px;margin-top:-30px}.chat-emote.chat-emote-AngelThump{background-position:0 -30px;width:95px;height:30px;margin-top:-30px}.chat-emote.chat-emote-Abathur{background-position:0 -60px;width:82px;height:30px;margin-top:-30px}.chat-emote.chat-emote-GameOfThrows{background-position:-100px 0;width:79px;height:30px;margin-top:-30px}.chat-emote.chat-emote-DANKMEMES{background-position:-100px -30px;width:70px;height:30px;margin-top:-30px}.chat-emote.chat-emote-DuckerZ{background-position:-100px -60px;width:56px;height:26px;margin-top:-26px}.chat-emote.chat-emote-SoDoge{background-position:0 -90px;width:51px;height:30px;margin-top:-30px}.chat-emote.chat-emote-SoSad{background-position:-51px -90px;width:45px;height:28px;margin-top:-28px}.chat-emote.chat-emote-CheekerZ{background-position:0 -120px;width:44px;height:30px;margin-top:-30px}.chat-emote.chat-emote-LIES{background-position:-44px -120px;width:43px;height:30px;margin-top:-30px}.chat-emote.chat-emote-FrankerZ{background-position:-87px -120px;width:42px;height:30px;margin-top:-30px}.chat-emote.chat-emote-SOTRIGGERED{background-position:-129px -120px;width:40px;height:30px;margin-top:-30px}.chat-emote.chat-emote-Heimerdonger{background-position:-179px 0;width:37px;height:30px;margin-top:-30px}.chat-emote.chat-emote-FeedNathan{background-position:-179px -30px;width:37px;height:30px;margin-top:-30px}.chat-emote.chat-emote-LUL{background-position:-179px -60px;width:36px;height:30px;margin-top:-30px}.chat-emote.chat-emote-BibleThump{background-position:-179px -90px;width:36px;height:30px;margin-top:-30px}.chat-emote.chat-emote-INFESTINY{background-position:-179px -120px;width:35px;height:30px;margin-top:-30px}.chat-emote.chat-emote-Hhhehhehe{background-position:-96px -90px;width:35px;height:24px;margin-top:-24px}.chat-emote.chat-emote-SWEATSTINY{background-position:0 -150px;width:34px;height:30px;margin-top:-30px}.chat-emote.chat-emote-SURPRISE{background-position:-34px -150px;width:33px;height:30px;margin-top:-30px}.chat-emote.chat-emote-OverRustle{background-position:-67px -150px;width:33px;height:30px;margin-top:-30px}.chat-emote.chat-emote-LeRuse{background-position:-100px -150px;width:33px;height:30px;margin-top:-30px}.chat-emote.chat-emote-Klappa{background-position:-133px -150px;width:33px;height:30px;margin-top:-30px}.chat-emote.chat-emote-FerretLOL{background-position:-166px -150px;width:33px;height:30px;margin-top:-30px}.chat-emote.chat-emote-NoTears{background-position:0 -180px;width:31px;height:30px;margin-top:-30px}.chat-emote.chat-emote-MASTERB8{background-position:-31px -180px;width:31px;height:29px;margin-top:-29px}.chat-emote.chat-emote-DestiSenpaii{background-position:-216px 0;width:31px;height:30px;margin-top:-30px}.chat-emote.chat-emote-YEE{background-position:-216px -30px;width:27px;height:30px;margin-top:-30px}.chat-emote.chat-emote-WhoahDude{background-position:-216px -60px;width:25px;height:30px;margin-top:-30px}.chat-emote.chat-emote-WORTH{background-position:-216px -90px;width:20px;height:30px;margin-top:-30px}.chat-emote.chat-emote-UWOTM8{background-position:-216px -120px;width:26px;height:30px;margin-top:-30px}.chat-emote.chat-emote-TooSpicy{background-position:-216px -150px;width:23px;height:30px;margin-top:-30px}.chat-emote.chat-emote-Sippy{background-position:-216px -180px;width:24px;height:30px;margin-top:-30px}.chat-emote.chat-emote-PEPE{background-position:0 -210px;width:30px;height:30px;margin-top:-30px}.chat-emote.chat-emote-OhKrappa{background-position:-30px -210px;width:23px;height:30px;margin-top:-30px}.chat-emote.chat-emote-Nappa{background-position:-53px -210px;width:22px;height:30px;margin-top:-30px}.chat-emote.chat-emote-NOTMYTEMPO{background-position:-75px -210px;width:23px;height:30px;margin-top:-30px}.chat-emote.chat-emote-MotherFuckinGame{background-position:-98px -210px;width:30px;height:30px;margin-top:-30px}.chat-emote.chat-emote-MLADY{background-position:-128px -210px;width:30px;height:30px;margin-top:-30px}.chat-emote.chat-emote-Kappa{background-position:-158px -210px;width:22px;height:30px;margin-top:-30px}.chat-emote.chat-emote-Dravewin{background-position:-180px -210px;width:30px;height:30px;margin-top:-30px}.chat-emote.chat-emote-Disgustiny{background-position:-210px -210px;width:28px;height:30px;margin-top:-30px}.chat-emote.chat-emote-DatGeoff{background-position:-247px 0;width:21px;height:30px;margin-top:-30px}.chat-emote.chat-emote-DappaKappa{background-position:-268px 0;width:26px;height:30px;margin-top:-30px}.chat-emote.chat-emote-DaFeels{background-position:0 -240px;width:30px;height:30px;margin-top:-30px}.chat-emote.chat-emote-DURRSTINY{background-position:-268px -30px;width:21px;height:30px;margin-top:-30px}.chat-emote.chat-emote-DAFUK{background-position:-30px -240px;width:30px;height:30px;margin-top:-30px}.chat-emote.chat-emote-CallChad{background-position:-268px -60px;width:24px;height:30px;margin-top:-30px}.chat-emote.chat-emote-CallCatz{background-position:-268px -90px;width:22px;height:30px;margin-top:-30px}.chat-emote.chat-emote-BasedGod{background-position:-60px -240px;width:29px;height:30px;margin-top:-30px}.chat-emote.chat-emote-nathanParty{background-position:-62px -180px;width:28px;height:28px;margin-top:-28px}.chat-emote.chat-emote-nathanFeels{background-position:-90px -180px;width:28px;height:28px;margin-top:-28px}.chat-emote.chat-emote-nathanFather{background-position:-118px -180px;width:28px;height:28px;margin-top:-28px}.chat-emote.chat-emote-nathanDubs3{background-position:-131px -90px;width:28px;height:22px;margin-top:-22px}.chat-emote.chat-emote-nathanDubs2{background-position:-146px -180px;width:28px;height:12px;margin-top:-12px}.chat-emote.chat-emote-nathanDubs1{background-position:-89px -240px;width:28px;height:28px;margin-top:-28px}.chat-emote.chat-emote-nathanDank{background-position:-117px -240px;width:28px;height:28px;margin-top:-28px}.chat-emote.chat-emote-nathanDad{background-position:-145px -240px;width:28px;height:27px;margin-top:-27px}.chat-emote.chat-emote-FIDGETLOL{background-position:-268px -120px;width:25px;height:25px;margin-top:-25px}.icon-subscriber,.icon-subscribert2,.icon-subscribert3,.icon-subscribert4{-webkit-transform:rotate(0deg);-webkit-transition:rotate .2s ease-in-out;-moz-transition:rotate .2s ease-in-out;-o-transition:rotate .2s ease-in-out;transition:rotate .2s ease-in-out}.icon-subscriber:hover,.icon-subscribert2:hover,.icon-subscribert3:hover,.icon-subscribert4:hover{-moz-animation:spin 3s infinite linear;-webkit-animation:spin 3s infinite linear}.icon-vip:hover,.icon-vip,.icon-trusted,.icon-subscribert4,.icon-subscribert3,.icon-subscribert2,.icon-subscriber,.icon-status,.icon-notable,.icon-moderator,.icon-minitwitch,.icon-mail,.icon-mail-send,.icon-mail-receive,.icon-mail-open-document,.icon-info,.icon-evenotable,.icon-error,.icon-contributor,.icon-compchallenge:hover,.icon-compchallenge,.icon-command,.icon-bot:hover,.icon-bot,.icon-admin:hover,.icon-admin{background-image:url('../img/icons.png');background-repeat:no-repeat}.icon-vip:hover{background-position:0 0;width:16px;height:16px}.icon-vip{background-position:-16px 0;width:16px;height:16px}.icon-trusted{background-position:0 -16px;width:16px;height:16px}.icon-subscribert4{background-position:-16px -16px;width:16px;height:16px}.icon-subscribert3{background-position:-32px 0;width:16px;height:16px}.icon-subscribert2{background-position:-32px -16px;width:16px;height:16px}.icon-subscriber{background-position:0 -32px;width:16px;height:16px}.icon-status{background-position:-16px -32px;width:16px;height:16px}.icon-notable{background-position:-32px -32px;width:16px;height:16px}.icon-moderator{background-position:-48px 0;width:16px;height:16px}.icon-minitwitch{background-position:-48px -16px;width:16px;height:16px}.icon-mail{background-position:-48px -32px;width:16px;height:16px}.icon-mail-send{background-position:0 -48px;width:16px;height:16px}.icon-mail-receive{background-position:-16px -48px;width:16px;height:16px}.icon-mail-open-document{background-position:-32px -48px;width:16px;height:16px}.icon-info{background-position:-48px -48px;width:16px;height:16px}.icon-evenotable{background-position:-64px 0;width:16px;height:16px}.icon-error{background-position:-64px -16px;width:16px;height:16px}.icon-contributor{background-position:-64px -32px;width:16px;height:16px}.icon-compchallenge:hover{background-position:-64px -48px;width:16px;height:16px}.icon-compchallenge{background-position:0 -64px;width:16px;height:16px}.icon-command{background-position:-16px -64px;width:16px;height:16px}.icon-bot:hover{background-position:-32px -64px;width:16px;height:16px}.icon-bot{background-position:-48px -64px;width:16px;height:16px}.icon-admin:hover{background-position:-64px -64px;width:16px;height:16px}.icon-admin{background-position:-80px 0;width:16px;height:16px}

diff --git a/config/config.php b/config/config.php
@@ -65,6 +65,7 @@ return array (
 			'YEE',
 			'SWEATSTINY',
 			'PEPE',
+			'CheekerZ',
 		),
 		'twitchemotes' => array(
 			'nathanDad',
